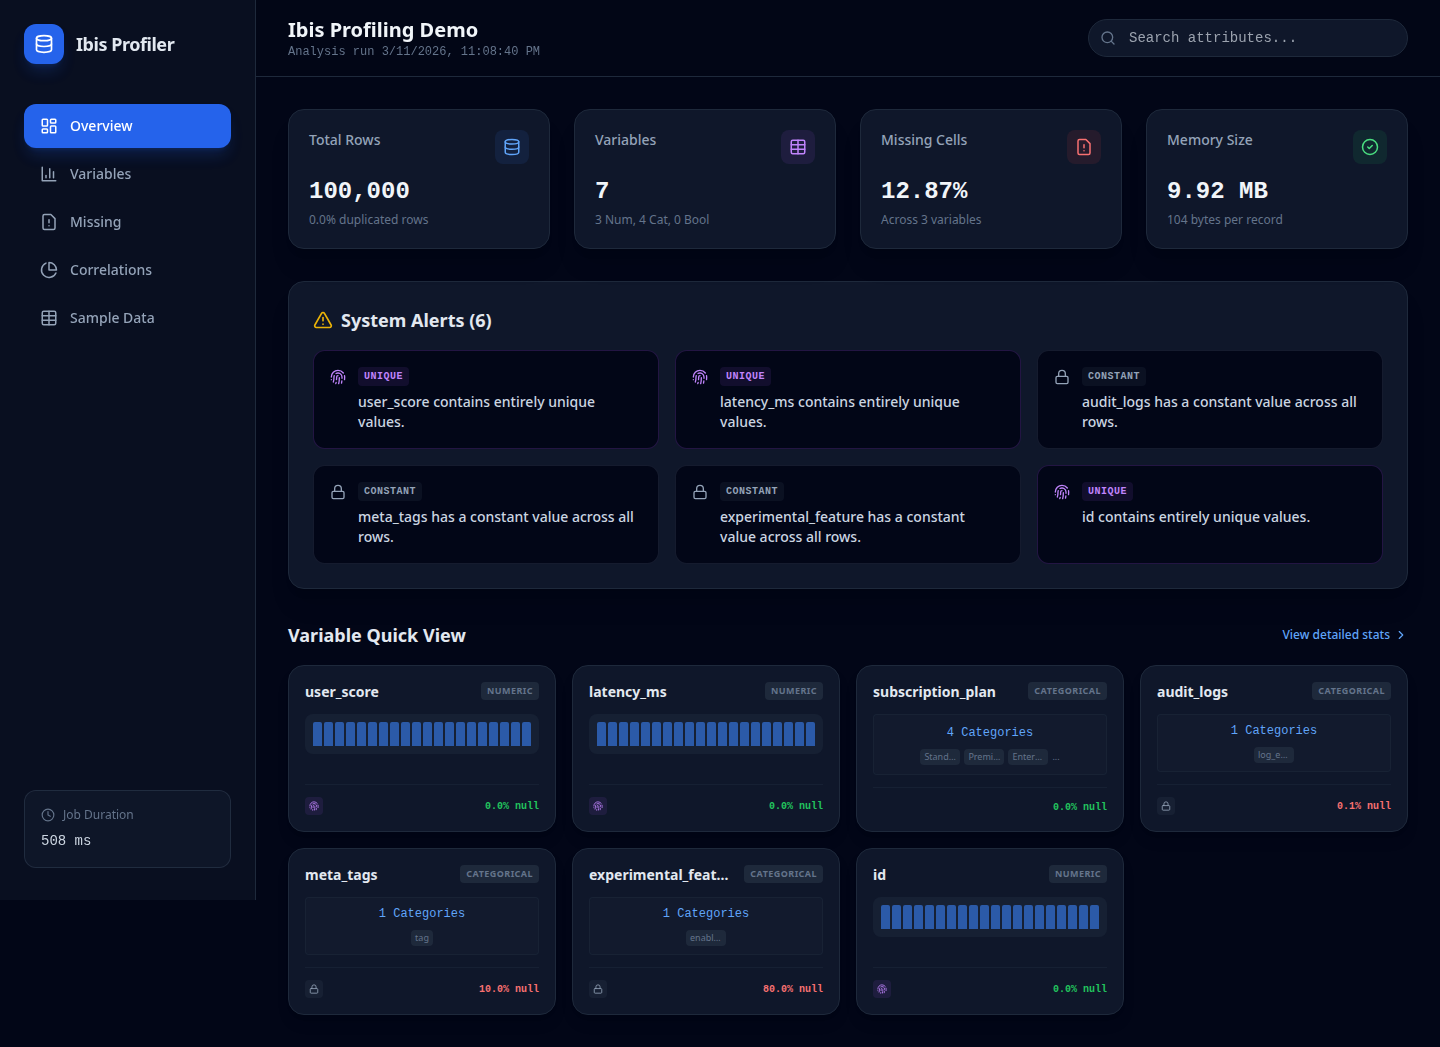
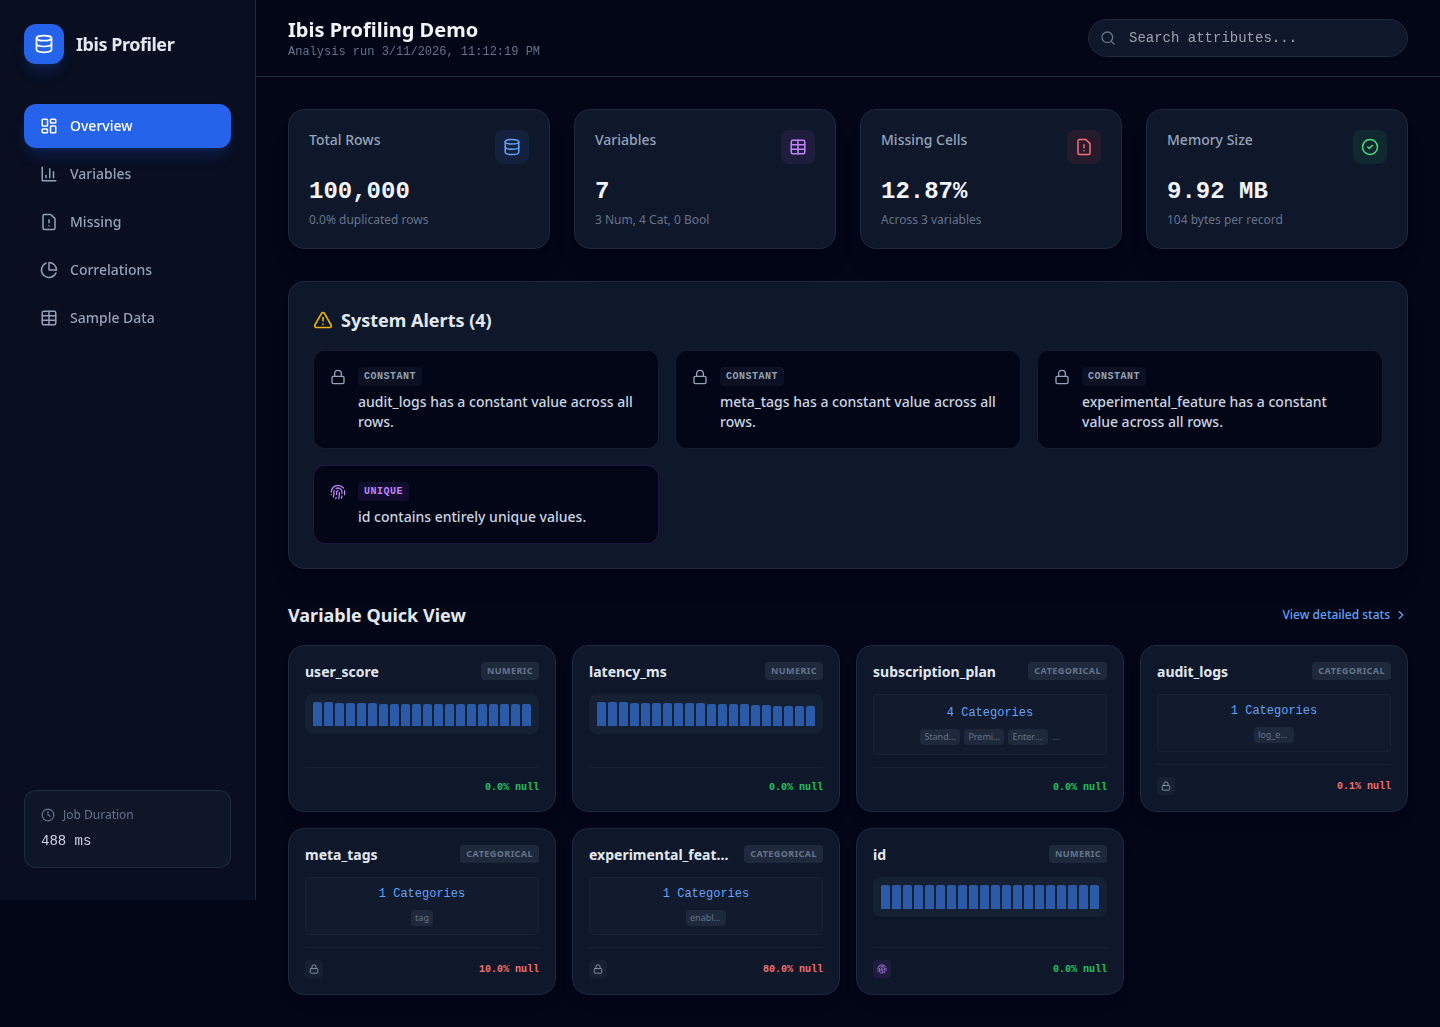
Fix flat histograms and improve documentation visuals

diff --git a/src/ibis_profiling/report/report.py b/src/ibis_profiling/report/report.py
@@ -192,9 +192,26 @@ class ProfileReport:
         elif col_name in self.variables:
             # Handle complex mapping like histograms
             if metric_name == "top_values":
-                counts = list(value.get(f"{col_name}_count", []))
-                labels = [str(x) for x in value.get(col_name, [])]
-                self.variables[col_name]["histogram"] = {"bins": labels, "counts": counts}
+                # Ibis value_counts() returns [col_name, count_col]
+                # count_col can be 'count', or f'{col_name}_count', or an expression string
+
+                # 1. Identify count column
+                if "count" in value:
+                    count_key = "count"
+                else:
+                    # Fallback to anything ending in _count or having 'count' in it
+                    count_keys = [k for k in value.keys() if "count" in k.lower()]
+                    count_key = count_keys[0] if count_keys else None
+
+                # 2. Identify label column (the one that isn't the count)
+                label_keys = [k for k in value.keys() if k != count_key]
+                label_key = label_keys[0] if label_keys else None
+
+                if count_key and label_key:
+                    counts = list(value.get(count_key, []))
+                    labels = [str(x) for x in value.get(label_key, [])]
+                    self.variables[col_name]["histogram"] = {"bins": labels, "counts": counts}
+
             elif metric_name == "length_histogram":
                 # Value is a dict with two columns: the length and the count
                 keys = list(value.keys())

diff --git a/src/ibis_profiling/planner.py b/src/ibis_profiling/planner.py
@@ -48,10 +48,25 @@ class QueryPlanner:
                 plans.append((col_name, metric.name, metric.build_expr(col)))
 
             # 2. Histograms / Distribution (top values) for ALL columns
-            # We treat top-values as the "distribution" for the UI.
-            # For numeric columns, it acts as a frequency plot of values.
-            # For categorical, it's the standard value counts.
-            hist_expr = col.value_counts().order_by(ibis.desc(f"{col_name}_count")).limit(20)
+            # For numeric columns, we round to create a pseudo-histogram if continuous.
+            if isinstance(
+                dtype,
+                (
+                    ibis.expr.datatypes.Integer,
+                    ibis.expr.datatypes.Floating,
+                    ibis.expr.datatypes.Decimal,
+                ),
+            ):
+                # Rounding helps group continuous values into "bins" for the top-value plot
+                # We sort by the second column (count) and rename it to 'count'
+                vc = col.round(2).value_counts()
+                count_col = vc.columns[1]
+                hist_expr = vc.order_by(ibis.desc(count_col)).rename({"count": count_col}).limit(20)
+            else:
+                vc = col.value_counts()
+                count_col = vc.columns[1]
+                hist_expr = vc.order_by(ibis.desc(count_col)).rename({"count": count_col}).limit(20)
+
             plans.append((col_name, "top_values", hist_expr))
 
             # 3. Extreme Values (Smallest/Largest)
